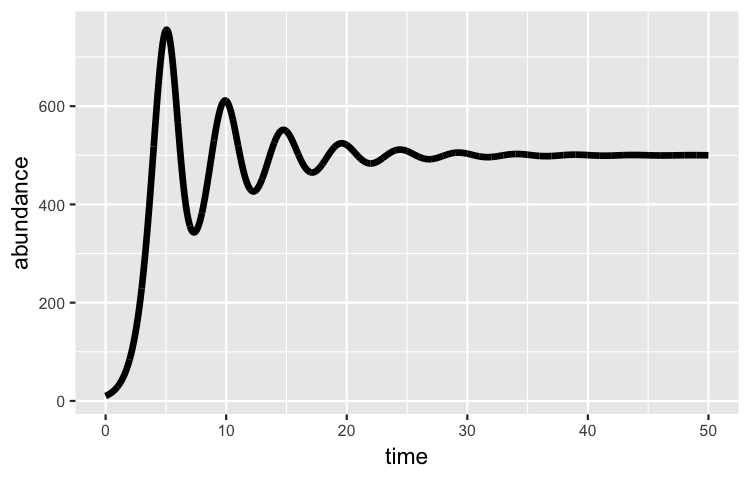
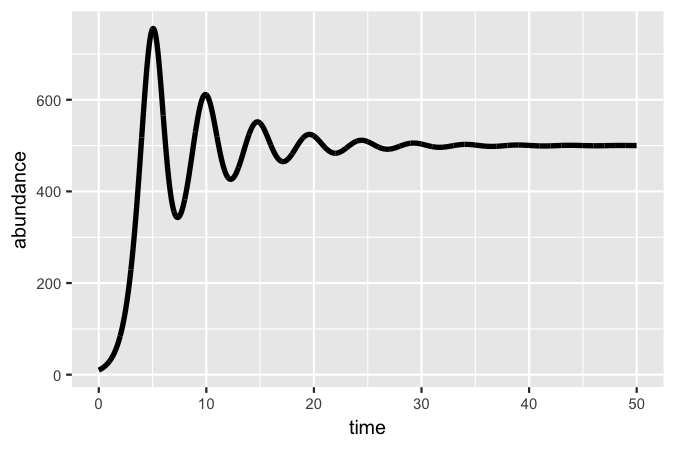
resize README figs

diff --git a/README.md b/README.md
@@ -42,51 +42,51 @@ library(ggplot2)
 t <- seq(0, 50, 0.01)
 ```
 
-##### Delayed logistic
+###### Delayed logistic
 
 ``` r
 df_dl <- logistic_delay(time = t, init_n = 10, r = 1.1, k = 500, tau = 1.12)
 
 ggplot(df_dl, aes(time, abundance)) +
-  geom_line(lwd = 1.5)
+  geom_line(lwd = 1.2)
 ```
 
 ![](man/img/Delayed-logistic-1.png)
 
-##### Lotka-Volterra predator-prey
+###### Lotka-Volterra predator-prey
 
 ``` r
 df_lvpp <- lotka_volterra(time = t, init_n = 50, init_p = 30, r = 0.8, c = 0.04,
                           a = 0.2, m = 0.3)
 
 ggplot(df_lvpp, aes(time, abundance, color = population)) +
-  geom_line(lwd = 1.5) +
+  geom_line(lwd = 1.2) +
   scale_color_brewer(type = 'qual', palette = 6)
 ```
 
 ![](man/img/Lotka-Volterra-predator-prey-1.png)
 
-##### Rock-paper-scissors-lizard-spock competition
+###### Rock-paper-scissors-lizard-spock competition
 
 ``` r
 df_rpslk <- rpslk(time = t, init_r = 0.02, init_p = 0.02, init_s = 0.03,
                   init_l = 0.9, init_k = 0.03, b = 0.7)
 
 ggplot(df_rpslk, aes(time, proportion, color = strategy)) +
-  geom_line(lwd = 1.5) +
+  geom_line(lwd = 1.2) +
   scale_color_brewer(type = 'qual', palette = 6)
 ```
 
 ![](man/img/R-P-S-L-K-competition-1.png)
 
-##### SIR epidemiological model
+###### SIR epidemiological model
 
 ``` r
 df_sir <- sir(time = t, init_s = 0.9999, init_i = 0.0001, init_r = 0,
               gamma = 0.6, beta = 0.08)
 
 ggplot(df_sir, aes(time, proportion, color = status)) +
-  geom_line(lwd = 1.5) +
+  geom_line(lwd = 1.2) +
   scale_color_brewer(type = 'qual', palette = 6)
 ```
 
